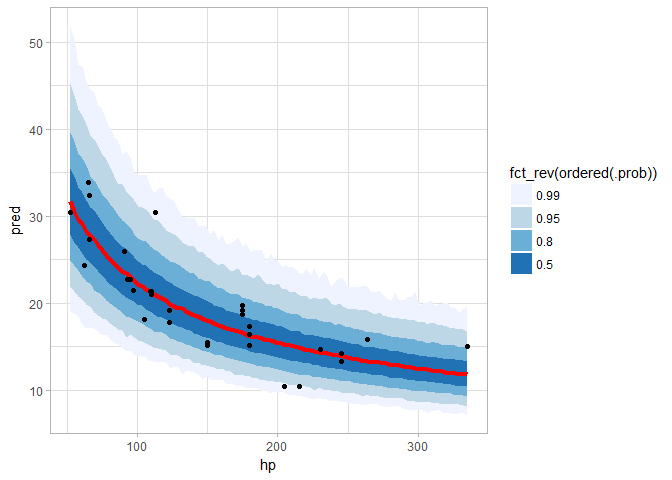
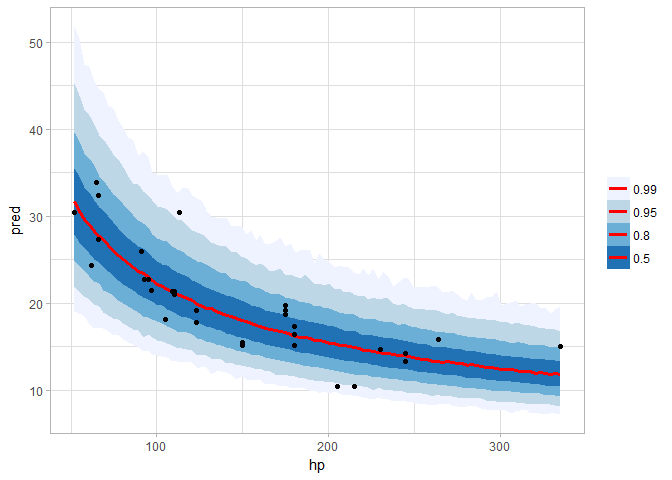
add geom_lineribbon, towards #61

diff --git a/README.md b/README.md
@@ -284,13 +284,19 @@ mtcars %>%
   add_predicted_samples(m_mpg) %>%
   median_qi(.prob = c(.99, .95, .8, .5)) %>%
   ggplot(aes(x = hp)) +
-  geom_ribbon(aes(ymin = conf.low, ymax = conf.high, fill = fct_rev(ordered(.prob)))) +
-  geom_line(aes(y = pred), color = "red", size = 1.5) +
+  geom_lineribbon(aes(y = pred)) +
   geom_point(aes(y = mpg), data = mtcars) +
   scale_fill_brewer()
 ```
 
 ![](README_files/figure-markdown_github-ascii_identifiers/unnamed-chunk-14-1.png)
+
+`geom_lineribbon(aes(y = pred))` in the above code is a shortcut for something like:
+
+``` r
+  geom_ribbon(aes(ymin = conf.low, ymax = conf.high, fill = forcats::fct_rev(ordered(.prob)))) +
+  geom_line(aes(y = pred), color = "red", size = 1.25)
+```
 
 Because this is all tidy data, if you wanted to build a model with interactions among different categorical variables (say a different curve for automatic and manula transmissions), you can easily generate predictions faceted over that variable (say, different curves for different transmission types). Then you could use the existing faceting features built in to ggplot to plot them.
 
@@ -308,8 +314,7 @@ mtcars %>%
   add_predicted_samples(m_mpg_am) %>%
   median_qi(.prob = c(.99, .95, .8, .5)) %>%
   ggplot(aes(x = hp)) +
-  geom_ribbon(aes(ymin = conf.low, ymax = conf.high, fill = fct_rev(ordered(.prob)))) +
-  geom_line(aes(y = pred), color = "red", size = 1.5) +
+  geom_lineribbon(aes(y = pred)) +
   geom_point(aes(y = mpg), data = mtcars) +
   scale_fill_brewer() +
   facet_wrap(~ am)                                  # facet by am
